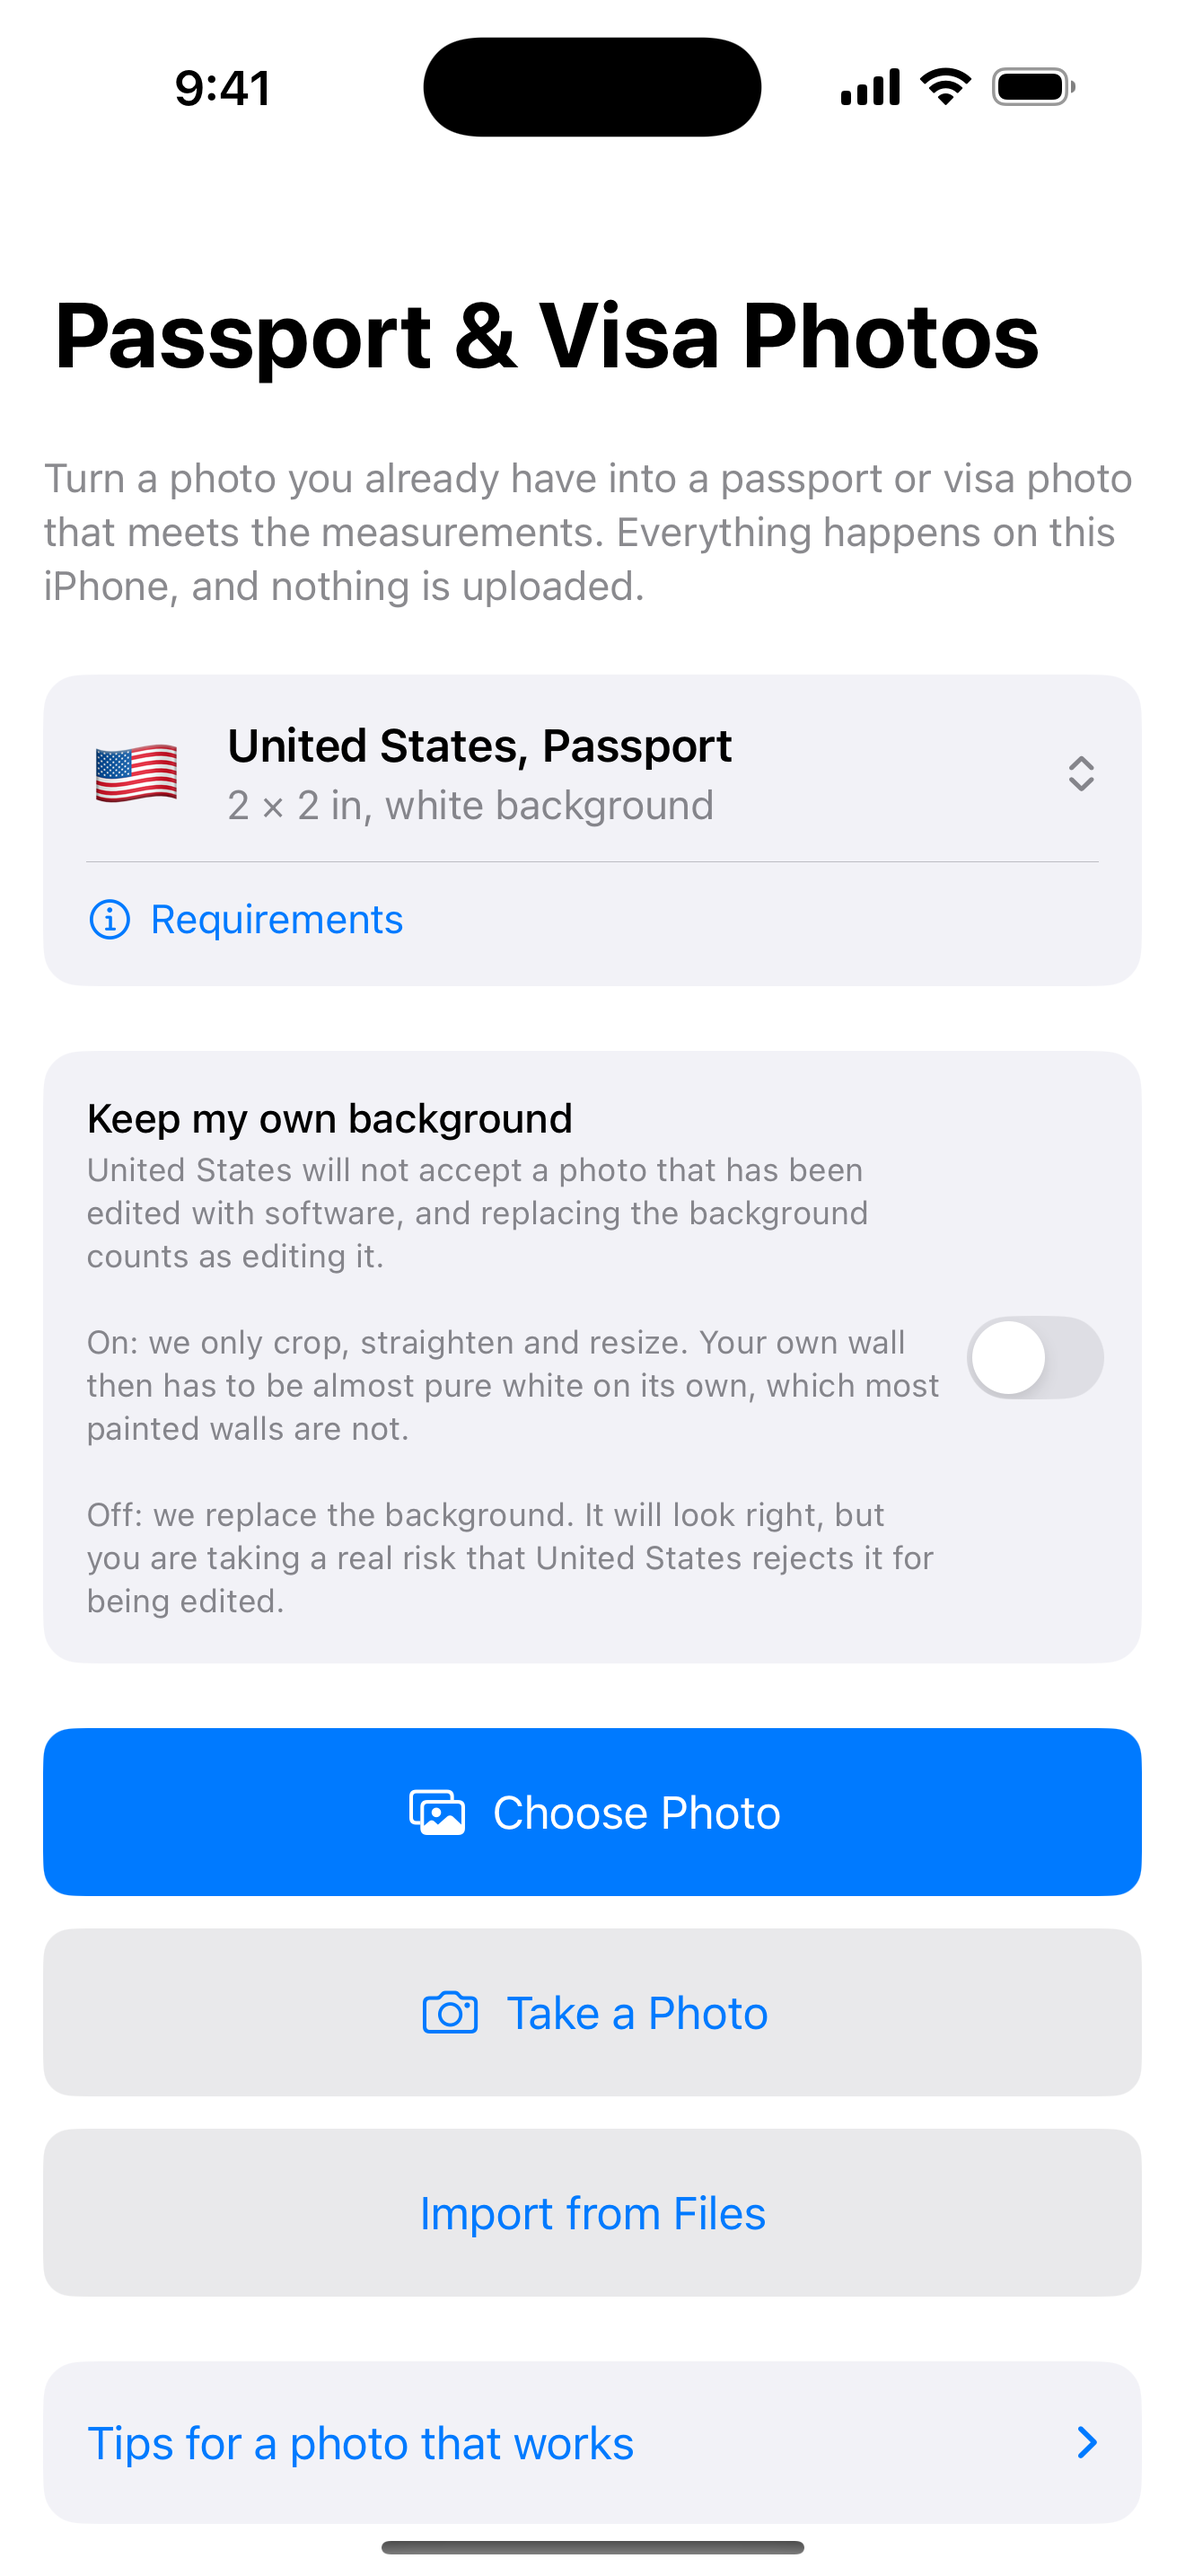
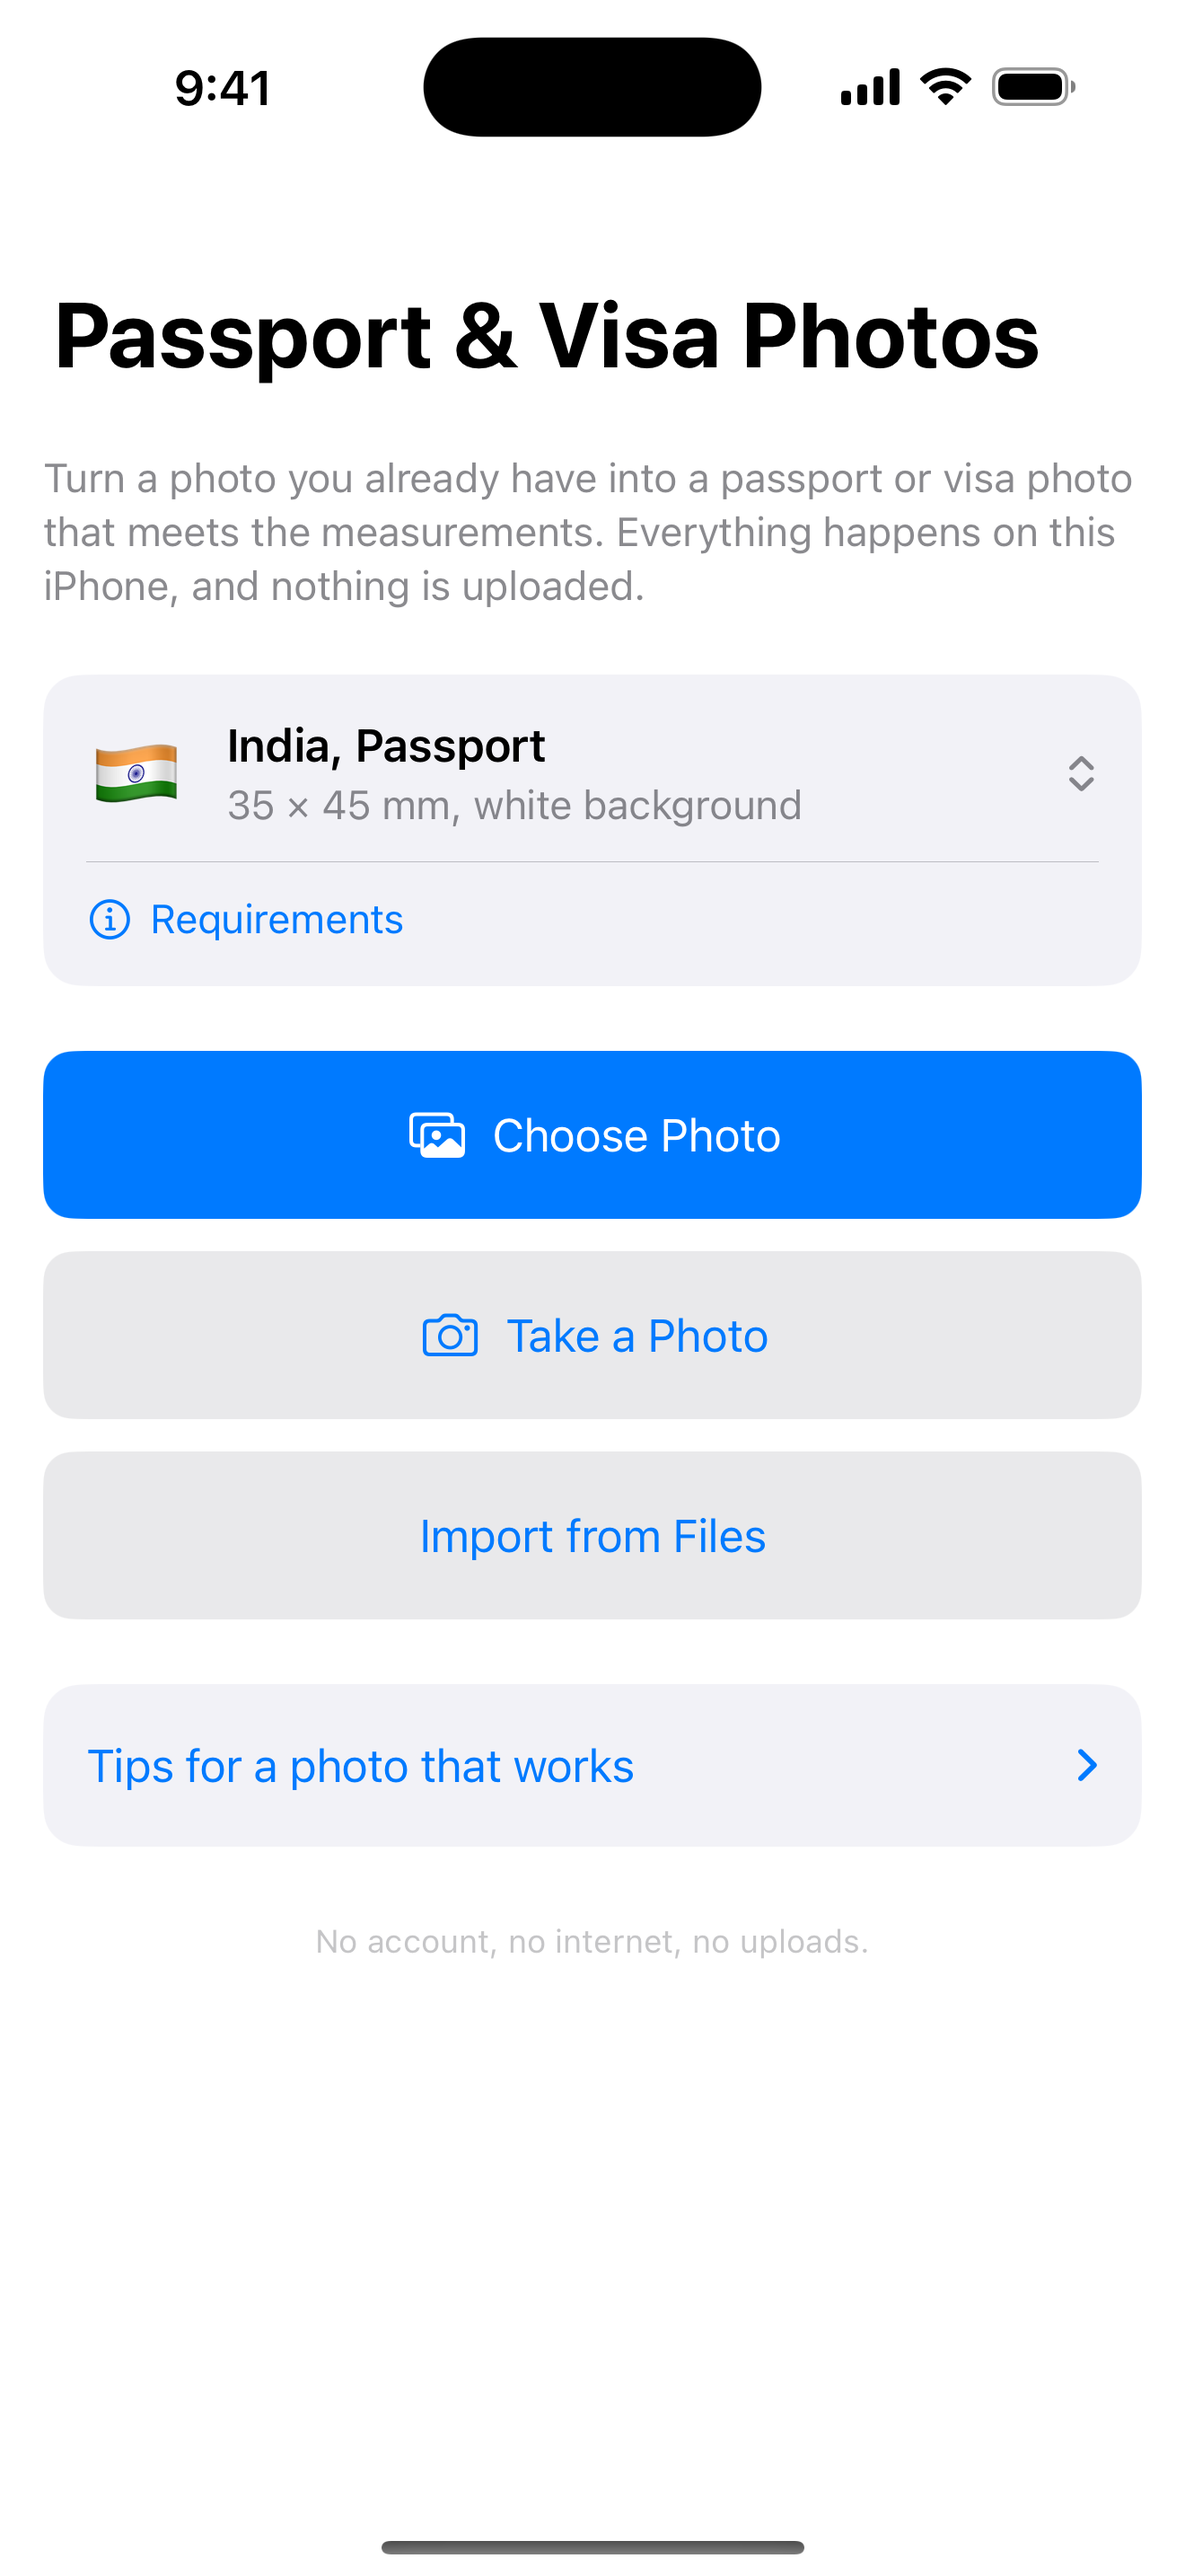
Name the app Exact ID Photo, and build proper App Store screenshots
The generic names are all taken. "Passport Photo - ID Photo", "ID Photo -
Passport Photo App", "ID Photo-Passport Photo maker", "Passport Photo & ID
Photo" and half a dozen more are already on the store, so "ID Photos" or
"Passport Photos" would have been the fiftieth near-identical name and
invisible in search. Dropping "Free" also removes the metadata rejection
risk, since Apple's guidelines rule out promotional terms in a name.

Worth knowing from the same search: two competitors already market the
on-device angle, so privacy is no longer a differentiator. What none of them
do is admit what they cannot check. The listing is written around that
instead, and it is what the second screenshot shows.

Adds tools/store-shot.swift, which composites a marketing screenshot from a
raw simulator capture: the icon's navy gradient and amber crop marks, a
headline, a rule and a subline, with the capture inset and shadowed. Five
rendered at 1320x2868, ordered so the two claims that matter land first.

The hero uses India rather than the United States, because the US home
screen carries the keep-background card and is too dense to read as a
thumbnail.

diff --git a/tools/store-shot.swift b/tools/store-shot.swift
@@ -1,0 +1,116 @@
+// Composites an App Store marketing screenshot: brand background, headline, subline, the raw
+// simulator capture inset with the icon's crop-corner motif around it.
+//
+// usage: store-shot <input.png> <output.png> "Headline" "Subline"
+import AppKit
+import CoreGraphics
+import CoreText
+import Foundation
+import ImageIO
+import UniformTypeIdentifiers
+
+let W = 1320.0, H = 2868.0
+
+// From the app icon: deep navy, amber crop marks.
+func rgb(_ hex: UInt32, _ a: CGFloat = 1) -> CGColor {
+    CGColor(srgbRed: CGFloat((hex >> 16) & 0xFF) / 255,
+            green: CGFloat((hex >> 8) & 0xFF) / 255,
+            blue: CGFloat(hex & 0xFF) / 255, alpha: a)
+}
+let navyTop = rgb(0x2E3866), navyBottom = rgb(0x141936), amber = rgb(0xF7BC4C)
+
+let args = CommandLine.arguments
+guard args.count >= 5 else { fputs("usage: store-shot in out headline subline\n", stderr); exit(2) }
+let inURL = URL(fileURLWithPath: args[1])
+let outURL = URL(fileURLWithPath: args[2])
+let headline = args[3], subline = args[4]
+
+guard let src = CGImageSourceCreateWithURL(inURL as CFURL, nil),
+      let shot = CGImageSourceCreateImageAtIndex(src, 0, nil) else {
+    fputs("cannot read \(inURL.path)\n", stderr); exit(1)
+}
+
+let ctx = CGContext(data: nil, width: Int(W), height: Int(H), bitsPerComponent: 8,
+                    bytesPerRow: 0, space: CGColorSpace(name: CGColorSpace.sRGB)!,
+                    bitmapInfo: CGImageAlphaInfo.premultipliedLast.rawValue)!
+
+// Background gradient.
+let gradient = CGGradient(colorsSpace: CGColorSpace(name: CGColorSpace.sRGB)!,
+                          colors: [navyTop, navyBottom] as CFArray, locations: [0, 1])!
+ctx.drawLinearGradient(gradient, start: CGPoint(x: 0, y: H), end: CGPoint(x: 0, y: 0), options: [])
+
+// Text is drawn with CoreText in native CG coordinates, so no flipping games.
+func draw(_ text: String, size: CGFloat, weight: NSFont.Weight, colour: CGColor,
+          topY: CGFloat, height: CGFloat, tracking: CGFloat = -1.5) -> CGFloat {
+    let para = NSMutableParagraphStyle()
+    para.alignment = .center
+    para.lineHeightMultiple = 1.06
+    let font = NSFont.systemFont(ofSize: size, weight: weight)
+    let attributed = NSAttributedString(string: text, attributes: [
+        .font: font, .foregroundColor: NSColor(cgColor: colour)!,
+        .paragraphStyle: para, .kern: tracking,
+    ])
+    let setter = CTFramesetterCreateWithAttributedString(attributed)
+    let bounds = CGRect(x: 90, y: H - topY - height, width: W - 180, height: height)
+    let path = CGPath(rect: bounds, transform: nil)
+    let frame = CTFramesetterCreateFrame(setter, CFRange(location: 0, length: 0), path, nil)
+    CTFrameDraw(frame, ctx)
+    let fitted = CTFramesetterSuggestFrameSizeWithConstraints(
+        setter, CFRange(location: 0, length: 0), nil,
+        CGSize(width: W - 180, height: .greatestFiniteMagnitude), nil)
+    return fitted.height
+}
+
+// Headline block, then an amber rule, then the subline.
+let headlineTop = 132.0
+let headlineHeight = draw(headline, size: 104, weight: .heavy, colour: rgb(0xFFFFFF),
+                          topY: headlineTop, height: 400)
+
+let ruleY = headlineTop + headlineHeight + 46
+ctx.setFillColor(amber)
+ctx.fill(CGRect(x: W / 2 - 54, y: H - ruleY - 8, width: 108, height: 8))
+
+let sublineTop = ruleY + 46
+_ = draw(subline, size: 46, weight: .medium, colour: rgb(0xC9D0EA), topY: sublineTop,
+         height: 200, tracking: 0)
+
+// The capture, inset with rounded corners and a soft shadow.
+let shotWidth = 980.0
+let scale = shotWidth / CGFloat(shot.width)
+let shotHeight = CGFloat(shot.height) * scale
+let shotX = (W - shotWidth) / 2
+let shotY = 118.0                      // from the bottom
+let rect = CGRect(x: shotX, y: shotY, width: shotWidth, height: shotHeight)
+let rounded = CGPath(roundedRect: rect, cornerWidth: 54, cornerHeight: 54, transform: nil)
+
+ctx.saveGState()
+ctx.setShadow(offset: CGSize(width: 0, height: -18), blur: 54, color: rgb(0x000000, 0.45))
+ctx.addPath(rounded)
+ctx.setFillColor(rgb(0xFFFFFF))
+ctx.fillPath()
+ctx.restoreGState()
+
+ctx.saveGState()
+ctx.addPath(rounded)
+ctx.clip()
+ctx.draw(shot, in: rect)
+ctx.restoreGState()
+
+// The icon's crop marks, framing the phone the way they frame the portrait.
+func cropMark(x: CGFloat, y: CGFloat, dx: CGFloat, dy: CGFloat) {
+    let arm = 86.0, thick = 11.0
+    ctx.setFillColor(amber)
+    ctx.fill(CGRect(x: x, y: y, width: arm * dx, height: thick * (dy > 0 ? 1 : 1)))
+    ctx.fill(CGRect(x: x, y: y, width: thick, height: arm * dy))
+}
+let inset = 52.0
+cropMark(x: rect.minX - inset, y: rect.maxY + inset, dx: 1, dy: -1)
+cropMark(x: rect.maxX + inset - 86, y: rect.minY - inset, dx: 1, dy: 1)
+
+guard let image = ctx.makeImage(),
+      let dest = CGImageDestinationCreateWithURL(outURL as CFURL,
+                                                 UTType.png.identifier as CFString, 1, nil)
+else { fputs("render failed\n", stderr); exit(1) }
+CGImageDestinationAddImage(dest, image, nil)
+CGImageDestinationFinalize(dest)
+print("wrote \(outURL.lastPathComponent) \(image.width)x\(image.height)")

diff --git a/docs/store/LISTING.md b/docs/store/LISTING.md
@@ -4,15 +4,23 @@ Fill these into App Store Connect. Everything here is a draft, not a decision.
 
 ## Name (30 characters)
 
-**Free ID Photos** (14)
+**Exact ID Photo** (14)
 
-One caution worth weighing before you commit. Apple's metadata guidelines say an app name must
-not include prices or promotional terms, and "free" has drawn rejections under that reading in
-the past. Enforcement looks inconsistent, and plenty of shipping apps have it, so treat it as a
-real risk rather than a certainty. If you would rather not gamble on it:
+Chosen over the generic options because the category is saturated. Every obvious combination is
+already on the store: "Passport Photo - ID Photo", "ID Photo - Passport Photo App", "ID
+Photo-Passport Photo maker", "Passport Photo & ID Photo", "ID Photo: Passport Photo Maker" and
+more. A fiftieth near-identical name would be invisible in search, and the name is not where
+discovery comes from anyway: that is the keyword field and the subtitle.
 
-- **ID Photos** (9)
-- **Passport Photos** (15)
+Dropping "Free" also removes a rejection risk. Apple's metadata guidelines say an app name must
+not include prices or promotional terms, and "free" has drawn rejections under that reading.
+
+**Check availability in App Store Connect before anything else.** Search results only show what
+ranks, not what is reserved, so this cannot be confirmed from outside. Reserving is free and
+instant. Have a second choice ready:
+
+- **Cut to Size** (11)
+- **Passport Rules** (14)
 
 ## Subtitle (30 characters)
 
@@ -112,3 +120,20 @@ Suggested text for the reviewer:
 
   The app never claims a photo will be accepted by any authority. Each document lists the rules
   it cannot check, and shows the official source the requirements were read from.
+
+## Screenshots
+
+`docs/store/marketing/` holds five at 1320x2868, the 6.9 inch size Apple requires. Upload in
+the numbered order: the first two are what people see in search results, so they carry the two
+claims that matter most, namely the exact sizing and the honesty about what cannot be checked.
+
+They are generated, not hand-made, by `tools/store-shot.swift`. To change a caption or reshoot
+after a UI change, recapture with the simulator and re-run that tool. The palette comes from the
+app icon: navy #2E3866 to #141936, amber #F7BC4C, with the icon's crop marks framing the device.
+
+`docs/store/screenshots/` holds the raw captures they are built from.
+
+Missing, and only reachable on a real device because Vision does not run in the simulator: the
+result screen with a finished photo on it. That is the most persuasive screenshot the app has,
+and it is worth capturing during device testing. A photo of a stranger is fine for the store as
+long as you have their permission, or use your own.

diff --git a/docs/store/PRIVACY.md b/docs/store/PRIVACY.md
@@ -1,6 +1,6 @@
 # Privacy Policy
 
-**Free ID Photos**
+**Exact ID Photo**
 Last updated: 27 September 2026
 
 ## The short version
